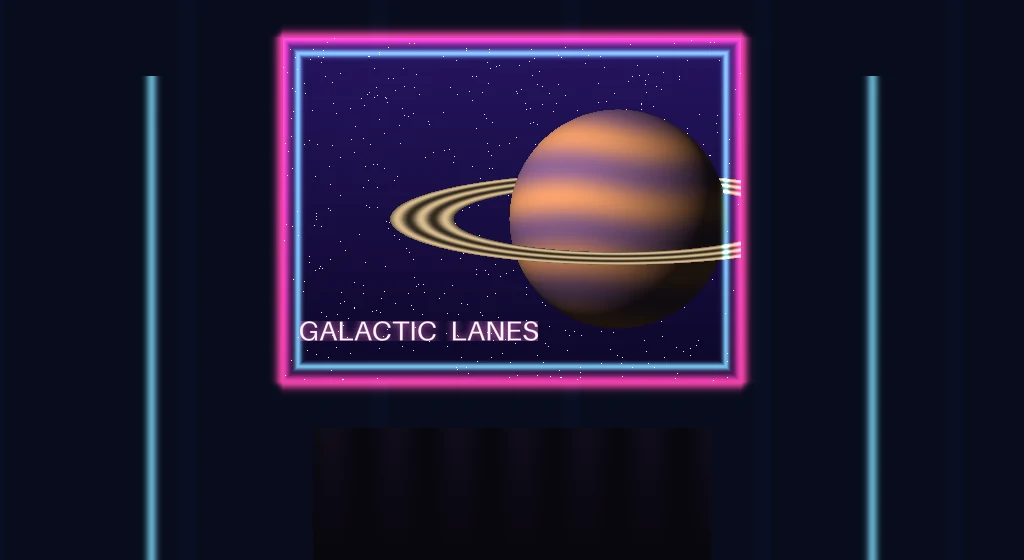
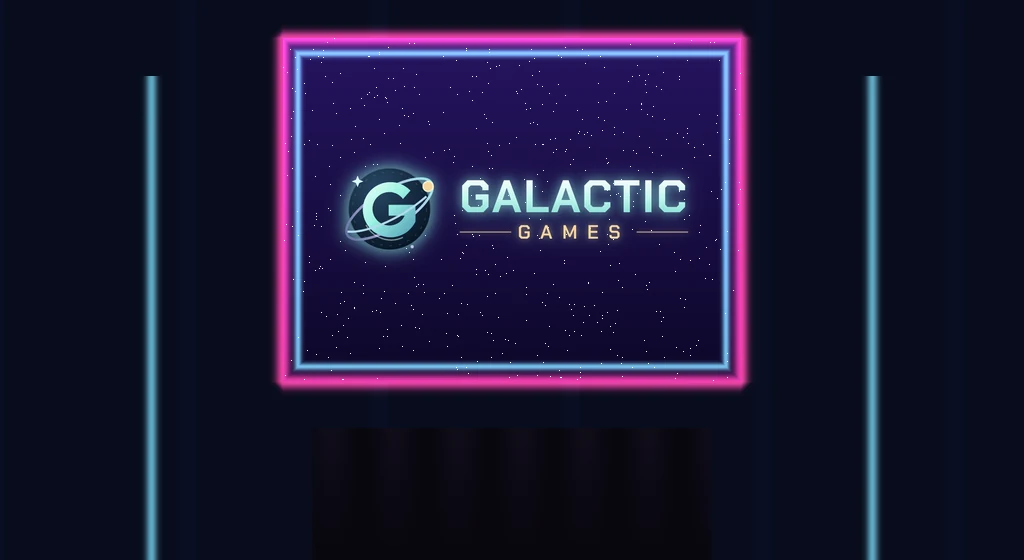
v215-saturn: Bowling sign shows GALACTIC GAMES; more sensitive mouse on computers
- The masking unit over the pins shows the GALACTIC GAMES insignia and wordmark in the brand fonts (it was a generic
  planet and "GALACTIC LANES"): scripts/render-bowling-sign.cjs + render-bowling-art.py; bowling-pit.webp?v=215.
- Desktop platform: a "mouse" throw profile (more angle, spin and power for the same stroke, smaller dead zones), so
  the mouse is more sensitive and the throw harder to control. Same recorded actions, same core 3.0.0 and server
  verification; phones keep the touch mapping.
- verify-bowling-gesture covers the mouse profile; docs, app 2.15.

Claude-Session: https://claude.ai/code/session_01T4RQvtj6TzY12omNmDqNK8

Changed region(s): [[0.3125, 0.1821, 0.75, 0.6071], [0.2812, 0.5464, 0.5312, 0.6071]]

diff --git a/lib/bowlingGesture.v3.ts b/lib/bowlingGesture.v3.ts
@@ -7,6 +7,17 @@ import { BOWLING_V2_ANGLE_CENTRE, BOWLING_V2_SPIN_CENTRE } from "./verified/bowl
 export type StrokePoint = { x: number; y: number; t: number };
 
 /**
+ * v215 (owner): on a computer the mouse is more sensitive than a finger, which also makes the throw harder to
+ * control: the same stroke gives more angle, more spin and more power, with smaller dead zones. Phones keep "touch".
+ * Only the mapping changes; the recorded actions and the game rules are the same.
+ */
+export type ThrowProfile = "touch" | "mouse";
+const PROFILES = {
+  touch: { angleGain: 64, angleDead: 0.012, spinGain: 60, spinDead: 0.02, powerFloor: 0.3, powerStep: 0.26 },
+  mouse: { angleGain: 100, angleDead: 0.005, spinGain: 95, spinDead: 0.008, powerFloor: 0.16, powerStep: 0.15 },
+} as const;
+
+/**
  * The throw stroke: from the lowest point of the gesture (where the upward stroke starts — a sideways aim drag before
  * it is not part of the throw) to the release point.
  */
@@ -21,28 +32,30 @@ export function strokeOf(g: { path: readonly StrokePoint[] }) {
  * to its length (a line bowing left hooks right at the back end, like the end of the stroke; 17 steps). Power: the
  * final flick speed. Tiny wobbles are ignored; everything else counts, so the throw is sensitive.
  */
-export function throwFromStroke(stroke: readonly StrokePoint[]) {
+export function throwFromStroke(stroke: readonly StrokePoint[], profile: ThrowProfile = "touch") {
+  const k = PROFILES[profile];
   if (stroke.length < 2) return null;
   const a = stroke[0], b = stroke[stroke.length - 1], dx = b.x - a.x, dy = b.y - a.y;
   if (dy > -30) return null;
-  const tilt = dx / -dy, angle = Math.max(0, Math.min(48, Math.round(BOWLING_V2_ANGLE_CENTRE + (Math.abs(tilt) < 0.012 ? 0 : tilt) * 64)));
+  const tilt = dx / -dy, angle = Math.max(0, Math.min(48, Math.round(BOWLING_V2_ANGLE_CENTRE + (Math.abs(tilt) < k.angleDead ? 0 : tilt) * k.angleGain)));
   const len = Math.hypot(dx, dy);
   let bend = 0;
   for (const p of stroke) {
     const k = (p.y - a.y) / dy, dev = (a.x + dx * k - p.x) * (-dy / len);
     if (Math.abs(dev) > Math.abs(bend * len)) bend = dev / len;
   }
-  const spin = Math.max(0, Math.min(16, Math.round(BOWLING_V2_SPIN_CENTRE + (Math.abs(bend) < 0.02 ? 0 : bend) * 60)));
-  return { angle, spin, power: swipePower(stroke) };
+  const spin = Math.max(0, Math.min(16, Math.round(BOWLING_V2_SPIN_CENTRE + (Math.abs(bend) < k.spinDead ? 0 : bend) * k.spinGain)));
+  return { angle, spin, power: swipePower(stroke, profile) };
 }
 
 /** Throw speed measured over the last ~110 ms of the stroke (the flick), mapped onto POWER 0–8 on a gentle curve. */
-export function swipePower(path: readonly StrokePoint[]) {
+export function swipePower(path: readonly StrokePoint[], profile: ThrowProfile = "touch") {
   const start = path[0], end = path[path.length - 1];
   let k = path.length - 1;
   while (k > 0 && end.t - path[k].t < 110) k--;
   const from = path[k], ms = Math.max(30, end.t - from.t), recent = (from.y - end.y) / ms;
   const overall = (start.y - end.y) / Math.max(60, end.t - start.t);
   const speed = Math.max(recent, overall);
-  return Math.max(0, Math.min(8, Math.round((speed - 0.3) / 0.26)));
+  const pr = PROFILES[profile];
+  return Math.max(0, Math.min(8, Math.round((speed - pr.powerFloor) / pr.powerStep)));
 }

diff --git a/components/games/Bowling.tsx b/components/games/Bowling.tsx
@@ -11,7 +11,10 @@ import {
 } from "@/lib/verified/bowlingCore.v3";
 import { BOWLING_V2_ANGLE_CENTRE, bowlingActionV2 as bowlingAction } from "@/lib/verified/bowlingProtocol.v2";
 import { drawCartoon } from "./bowlingShow";
-import { strokeOf, swipePower, throwFromStroke } from "@/lib/bowlingGesture.v3";
+import { strokeOf, swipePower, throwFromStroke, type ThrowProfile } from "@/lib/bowlingGesture.v3";
+import { currentPlatform } from "@/lib/platform";
+/** v215: computers (the desktop platform) throw with the more sensitive mouse mapping. */
+const throwProfile = (): ThrowProfile => (currentPlatform() === "desktop" ? "mouse" : "touch");
 import CoreCanvasGame, { type CorePoint } from "./CoreCanvasGame";
 import type { ScoreCell } from "../GameScoreboard";
 
@@ -39,7 +42,7 @@ function loadArt() {
   art.started = true;
   const load = (src: string, key: "lane" | "pit") => { const img = new Image(); img.decoding = "async"; img.onload = () => { art[key] = img; }; img.src = src; };
   load("/art/bowling-lane.webp?v=125", "lane");
-  load("/art/bowling-pit.webp?v=125", "pit");
+  load("/art/bowling-pit.webp?v=215", "pit");
 }
 const motion = { tick: -1, camZ: 0, camX: 0, seed: "" };
 type Gesture = { x: number; y: number; t: number; path: { x: number; y: number; t: number }[]; aimDrag: boolean };
@@ -437,7 +440,7 @@ function drawSwipe(ctx: CanvasRenderingContext2D, g: Gesture | null) {
     ctx.strokeStyle = `rgba(127,227,238,${0.15 + 0.7 * (i / stroke.length)})`; ctx.lineWidth = 2 + 8 * (i / stroke.length);
     ctx.beginPath(); ctx.moveTo(p0.x, p0.y); ctx.lineTo(p1.x, p1.y); ctx.stroke();
   }
-  const power = swipePower(stroke);
+  const power = swipePower(stroke, throwProfile());
   ctx.fillStyle = "rgba(6,12,28,.8)"; ctx.beginPath(); ctx.roundRect(362, 250, 14, 200, 7); ctx.fill();
   const fill = ctx.createLinearGradient(0, 450, 0, 250);
   fill.addColorStop(0, "#5cffb0"); fill.addColorStop(0.6, "#ffd23f"); fill.addColorStop(1, "#ff3d9a");
@@ -514,7 +517,7 @@ export default function Bowling(props: GameRuntimeProps) {
       return null;
     }
     gesture.current = null;
-    const th = throwFromStroke(strokeOf(g));
+    const th = throwFromStroke(strokeOf(g), throwProfile());
     if (!th) return null;
     gameTone("tap");
     return [bowlingAction("ANGLE", th.angle), bowlingAction("SPIN", th.spin), bowlingAction("POWER", th.power), "ROLL"];

diff --git a/scripts/verify-bowling-gesture.ts b/scripts/verify-bowling-gesture.ts
@@ -22,4 +22,12 @@ assert.deepEqual([th(aimThenUp).angle, th(aimThenUp).spin], [24, 8]);
 // Power follows the flick speed; a short or downward stroke is not a throw.
 assert.ok(th(line(195, 195, 0, 4)).power > th(line(195, 195, 0, 20)).power, "a faster flick is more power");
 assert.equal(throwFromStroke(strokeOf({ path: line(195, 195, 0).slice(0, 2) })), null);
-console.log("Bowling gesture OK · chord → direction · bend → spin · flick → power");
+// v215 · Computers: the mouse mapping is more sensitive (same stroke → more angle, spin and power); touch unchanged.
+const mouse = (path: StrokePoint[]) => throwFromStroke(strokeOf({ path }), "mouse")!;
+assert.deepEqual([mouse(line(195, 195, 0)).angle, mouse(line(195, 195, 0)).spin], [24, 8], "straight is still straight");
+assert.ok(mouse(line(195, 205, 0)).angle > th(line(195, 205, 0)).angle, "more angle for the same slant");
+assert.ok(mouse(line(195, 195, -8)).spin > th(line(195, 195, -8)).spin, "more spin for the same bow");
+assert.ok(mouse(line(195, 195, 0, 30)).power > th(line(195, 195, 0, 30)).power, "a slower mouse flick reaches more power");
+assert.notEqual(mouse(line(195, 197, 0)).angle, 24, "2 px of slant already turns the mouse throw");
+assert.deepEqual(throwFromStroke(strokeOf({ path: line(195, 205, -10) }), "touch"), th(line(195, 205, -10)), "touch is the default");
+console.log("Bowling gesture OK · chord → direction · bend → spin · flick → power · mouse more sensitive");

diff --git a/lib/productIdentity.ts b/lib/productIdentity.ts
@@ -6,7 +6,7 @@ export const PRODUCT_DESCRIPTION = 'Arcade espacial móvil. Aprende en segundos,
  * Visible app version (Settings › Acerca de): the current release number only — no internal branch names. Bump it
  * with every release (v161 → 1.61).
  */
-export const APP_VERSION = "2.14";
+export const APP_VERSION = "2.15";
 
 /**
  * Public support/privacy contact. Leave empty until the owner publishes one:

diff --git a/scripts/render-bowling-art.py b/scripts/render-bowling-art.py
@@ -5,10 +5,10 @@ Outputs
                                 included) and y ∈ [0, PIT] mm, far end (pit) on the top row. components/games/Bowling.tsx
                                 samples one row per screen line, so the boards, grain, arrows and dots are in perspective.
   public/art/bowling-pit.webp   1024 × 560 RGBA: the wall behind the pins (pit opening with curtain, the masking unit
-                                with a ringed planet and neon tubes, side dividers), covering x ∈ [-1500, LANE + 1500] mm and
+                                with the GALACTIC GAMES sign (v215) and neon tubes, side dividers), covering x ∈ [-1500, LANE + 1500] mm and
                                 0–2200 mm of height, drawn standing on the floor at y = PIT + 300 mm.
 Geometry comes from lib/verified/bowlingCore.v3.ts (lane 1054 mm, head pin 32 004 mm, pit 33 416 mm).
-Usage: python3 scripts/render-bowling-art.py
+Usage: node scripts/render-bowling-sign.cjs && python3 scripts/render-bowling-art.py
 """
 import math, os
 import numpy as np
@@ -132,23 +132,7 @@ u = (WX - mx0) / (mx1 - mx0); v = (WZ - mz0) / (mz1 - mz0)
 sky = np.stack([0.05 + 0.10 * v, 0.03 + 0.05 * v, 0.16 + 0.22 * v], -1)
 stars = np.random.default_rng(5).random((PH, PW)) > 0.9965
 sky[stars] = [0.9, 0.92, 1.0]
-# Planet with bands and a terminator.
-pcx, pcz, pr = cxm + 420, mz0 + 640, 430.0
-ddx, ddz = (WX - pcx) / pr, (WZ - pcz) / pr
-rr = ddx * ddx + ddz * ddz
-pl = rr < 1
-nz = np.sqrt(np.clip(1 - rr, 0, 1))
-lam = np.clip(-0.55 * ddx + 0.45 * ddz + 0.7 * nz, 0, 1)
-band = 0.5 + 0.5 * np.sin(ddz * 11 + np.sin(ddx * 3) * 0.6)
-pcol = np.stack([0.95 * band + 0.55 * (1 - band), 0.62 * band + 0.38 * (1 - band), 0.42 * band + 0.55 * (1 - band)], -1)
-pcol *= (0.12 + 0.95 * lam)[..., None]
-sky = np.where(pl[..., None], pcol, sky)
-# Ring (an ellipse band, hidden behind the planet's upper half).
-ex, ez = (WX - pcx) / (pr * 2.1), (WZ - pcz) / (pr * 0.42)
-er = np.sqrt(ex * ex + ez * ez)
-ring = (er > 0.72) & (er < 1.0) & ~(pl & (WZ > pcz))
-rc = 0.55 + 0.35 * np.sin(er * 60)
-sky = np.where(ring[..., None], np.stack([rc * 0.95, rc * 0.82, rc * 0.62], -1), sky)
+# v215 (owner): no planet on the masking unit any more — the GALACTIC GAMES sign goes there (below).
 rgba[inside, :3] = sky[inside]
 # Neon frame: pink outer tube, cyan inner tube, both glowing.
 edge = np.minimum.reduce([WX - mx0, mx1 - WX, WZ - mz0, mz1 - WZ])
@@ -163,15 +147,15 @@ for xd in (-900.0, LANE + 900.0):
     rgba[..., :3] += s[..., None] * np.array([0.5, 0.88, 0.95]) * 0.7
 rgba[..., :3] = np.clip(rgba[..., :3], 0, 1)
 pit = Image.fromarray((rgba * 255).astype(np.uint8), "RGBA")
-# "GALACTIC" lettering on the masking unit (plain sans; vector-free, drawn with PIL's default font scaled up).
-txt = Image.new("L", (640, 70), 0)
-ImageDraw.Draw(txt).text((4, 2), "GALACTIC  LANES", fill=255, font_size=44)
-txt = txt.crop(txt.getbbox())
-tw = int((mx1 - mx0) * sx * 0.52); th = int(txt.height * tw / txt.width)
-txt = txt.resize((tw, th), Image.LANCZOS)
-tx0 = int((mx0 + 70 - XM0) * sx); tz = int((HM - (mz0 + 160)) * sy) - th
-glow = txt.filter(ImageFilter.GaussianBlur(4))
-pit.paste((255, 120, 210), (tx0, tz), glow)
-pit.paste((255, 245, 250), (tx0, tz), txt)
+# v215 (owner): the GALACTIC GAMES sign (insignia + wordmark, scripts/render-bowling-sign.cjs) centred on the masking
+# unit, with a soft cyan halo so it reads as a lit panel.
+sign = Image.open(os.path.join(ROOT, "scripts/art/bowling-sign.png")).convert("RGBA")
+sw = int((mx1 - mx0) * sx * 0.86); sh = int(sign.height * sw / sign.width)
+sign = sign.resize((sw, sh), Image.LANCZOS)
+sx0 = int((cxm - XM0) * sx) - sw // 2; sz0 = int((HM - czm) * sy) - sh // 2
+halo = Image.new("RGBA", sign.size, (120, 230, 220, 0))
+halo.putalpha(sign.getchannel("A").filter(ImageFilter.GaussianBlur(10)).point(lambda a: int(a * 0.45)))
+pit.alpha_composite(halo, (sx0, sz0))
+pit.alpha_composite(sign, (sx0, sz0))
 pit.save(os.path.join(ROOT, "public/art/bowling-pit.webp"), quality=88, method=6)
 print("bowling-lane.webp", lane_img.size, "bowling-pit.webp", pit.size)

diff --git a/docs/STATE.md b/docs/STATE.md
@@ -4,7 +4,7 @@ Fuente única del estado del producto. Prevalece sobre `PRODUCT_BACKLOG_STATUS.m
 (congelado en v98) y sobre las notas de versión antiguas. Cada pull request que
 cambie algo de lo que aparece aquí lo actualiza.
 
-Actualizado: 16 de noviembre de 2026 · base `mobile-test` en v214-saturn.
+Actualizado: 16 de noviembre de 2026 · base `mobile-test` en v215-saturn.
 
 ## Catálogo
 
@@ -89,6 +89,7 @@ para replay). Fuente de verdad: `lib/games.ts`.
   - nada puede solaparse en ningún momento: los botones van fuera del tablero y `scripts/qa-overlap.cjs` lo comprueba.
 - [x] **Ruleta V16 y bordes (1 de noviembre, v136):** la bola se lanza de verdad desde el lanzador y entra con su velocidad (sin círculo forzado ni velocidad mínima); bordes de tarjeta con un color por categoría.
 - [x] **Pinball V9 (1 de noviembre, v137):** bloqueo y multibola de tres bolas, jackpots crecientes, súper jackpot y modos de 20 s.
+- [x] **Bowling (17 de noviembre, v215, app 2.15):** el letrero del fondo de la pista muestra el logo y «GALACTIC GAMES» (antes un planeta y «GALACTIC LANES»). En ordenador el ratón es más sensible: el mismo trazo da más dirección, efecto y fuerza, con zonas muertas menores, lo que lo hace más difícil de controlar. En móvil no cambia nada; reglas y acciones grabadas iguales (Bowling 3.0.0).
 - [x] **Portada de Tower Drop (17 de noviembre, v214, app 2.14):** el contenedor siguiente cuelga recto de un cable, separado por encima de la torre; sin fantasmas de balanceo ni destellos, para que no parezca un contenedor encajado entre otros dos. Una línea discontinua marca dónde aterrizará.
 - [x] **Interfaz (17 de noviembre, v213, app 2.13):** sin textos ni QR junto al marco de ordenador; pestaña «Grupos»; texto más grande en toda la app (≤ 9 px +1, 10–18 px +2); la X de borrar juegos va justo a la derecha de «2 Juegos» y siempre visible; al cambiar Online/Offline aparece «Modo Online»/«Modo Offline» en el centro. Paquete `qrcode-generator` retirado.
 - [x] **Next.js 16.4.5 (17 de noviembre, v212, app 2.12):** corrige dos avisos moderados de seguridad de 16.4.2 (caché con `'use cache'`/`unstable_cache`, que la app no usa). `pnpm audit --prod`: sin vulnerabilidades.

diff --git a/docs/releases/v215-saturn.md b/docs/releases/v215-saturn.md
@@ -1,0 +1,5 @@
+# v215-saturn · Bowling: letrero GALACTIC GAMES y ratón más sensible (app 2.15)
+
+- Letrero: el panel sobre los bolos lleva el logo (G orbital con satélite) y «GALACTIC / GAMES» con las fuentes de la marca, sobre el cielo estrellado y entre los tubos de neón. Antes: un planeta genérico y «GALACTIC LANES». `scripts/render-bowling-sign.cjs` + `scripts/render-bowling-art.py`; `bowling-pit.webp?v=215`.
+- Ordenador: perfil de ratón en `lib/bowlingGesture.v3.ts`. Con el mismo trazo da más dirección (×1,56), más efecto (×1,58) y más fuerza (umbral de velocidad 0,16 y paso 0,15 frente a 0,30 y 0,26), con zonas muertas menores. Es más sensible y más difícil de controlar. Solo cambia la traducción del gesto: mismas acciones grabadas, mismo núcleo 3.0.0 y la misma verificación en el servidor. En móvil no cambia nada.
+- Pruebas: `verify-bowling-gesture` (ratón más sensible; táctil por defecto e intacto).

diff --git a/docs/PRODUCT_BACKLOG.md b/docs/PRODUCT_BACKLOG.md
@@ -882,6 +882,10 @@ Detalle: [releases/v125-saturn.md](releases/v125-saturn.md).
 - Orb Burst y Stack Shift: más detalle.
 - Botones de jugar: borde mecanizado, bisel y un barrido de luz cada pocos segundos.
 
+## v215-saturn · Bowling: letrero y ratón (17-nov-2026)
+
+- Letrero GALACTIC GAMES; perfil de ratón más sensible en ordenador. Pendiente: prueba del propietario en ordenador; si quiere más dificultad que la del control, sería una versión nueva del juego solo para ordenador.
+
 ## v214-saturn · Portada de Tower Drop (17-nov-2026)
 
 - Contenedor colgante separado por encima de la torre (`tower_v214` en `scripts/generate-covers.py`).
